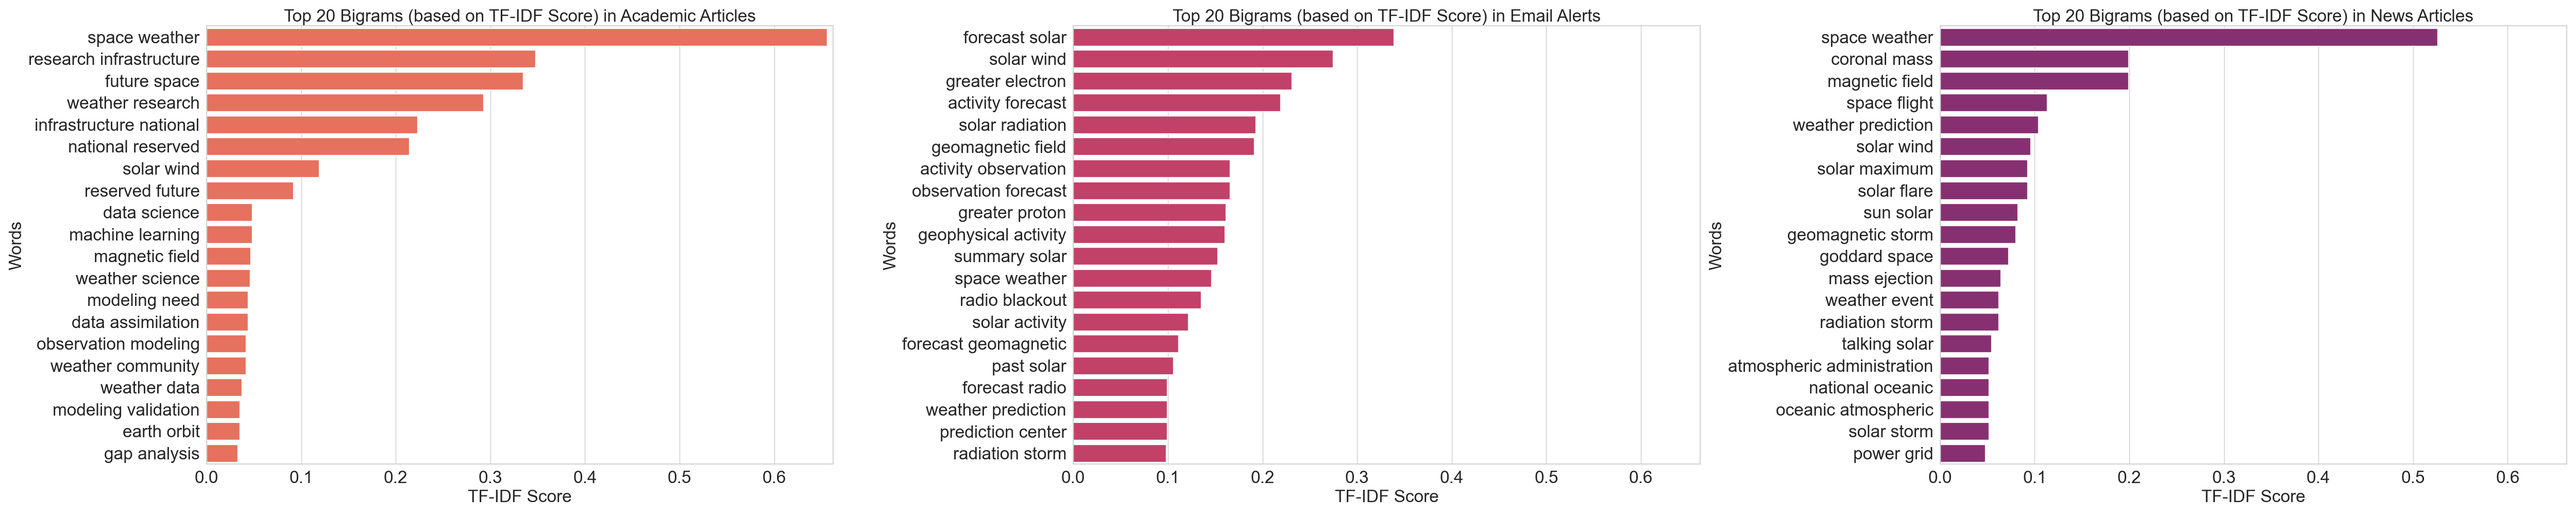
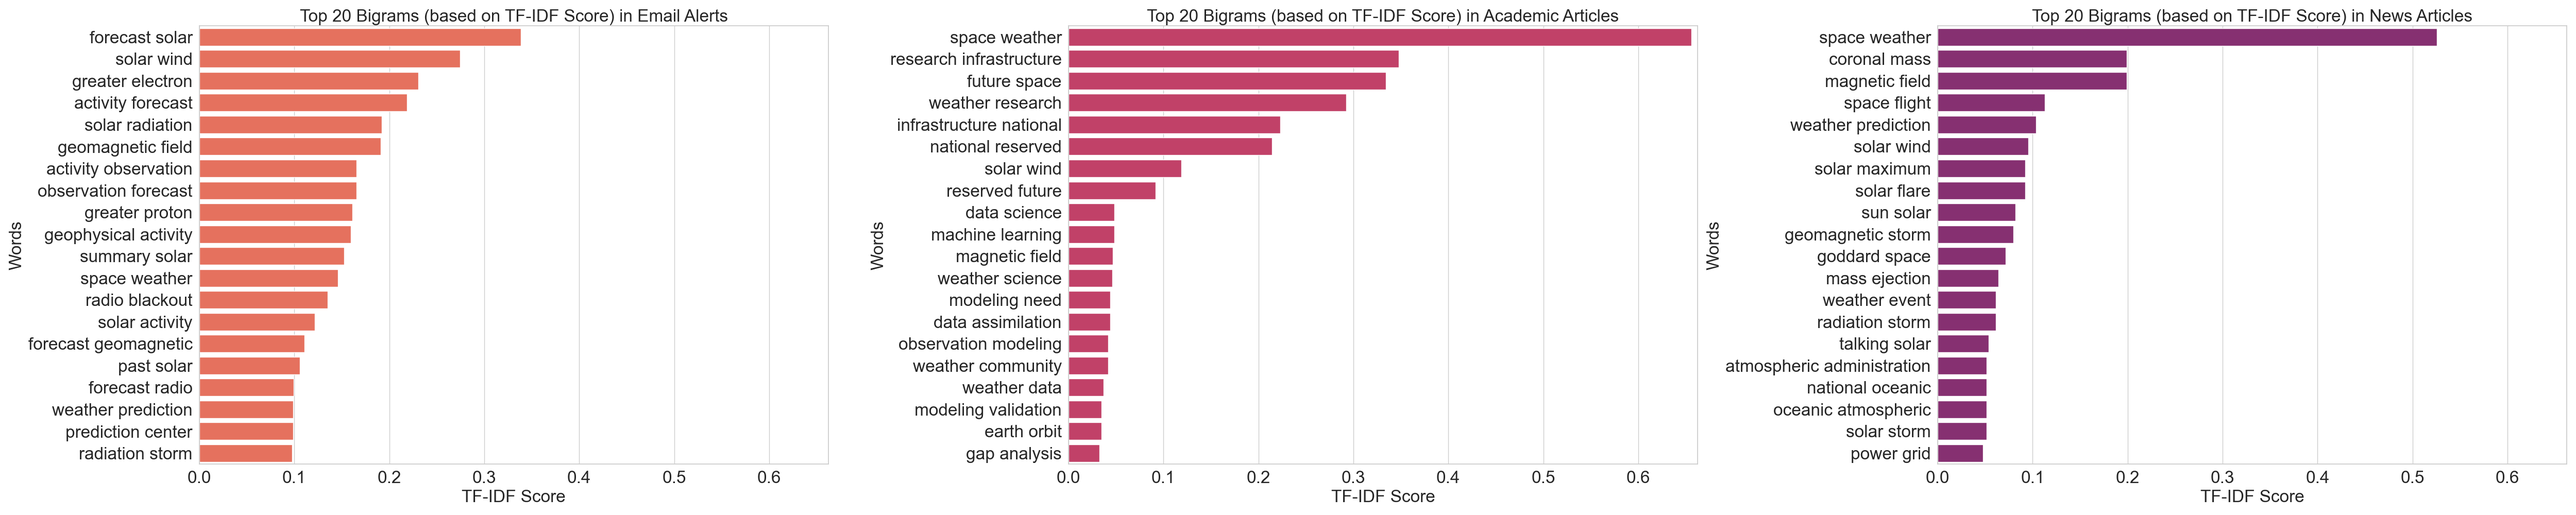
Final updated NLP analysis images

diff --git a/02_Code/04_SentimentAnalysis/02_SentimentAnalysis.py b/02_Code/04_SentimentAnalysis/02_SentimentAnalysis.py
@@ -14,19 +14,20 @@ def main():
         "Count"].transform("sum")
 
     sns.set_theme(style="whitegrid")
-    fig, axes = plt.subplots(4, 1, figsize=(15, 22), sharey=False)
+    fig, axes = plt.subplots(2, 2, figsize=(24, 12), sharey=False)
+    axes = axes.flatten()
 
-    documentNames = sentimentCounts["SourceTextType"].unique()
     palette = sns.color_palette("flare", n_colors=sentimentCounts["SentimentLabel"].nunique())
 
     graphOrder = ["emailAlert", "academicArticle", "newsArticle", "DashboardMessages"]
+    pieTitles = ["Email Alerts", "Academic Articles", "News Articles", "Dashboard Messages"]
     sentimentCounts["SourceTextType"] = pd.Categorical(sentimentCounts["SourceTextType"], categories=graphOrder, ordered=True)
     sentimentCounts = sentimentCounts.sort_values("SourceTextType")
 
     for i, category in enumerate(graphOrder):
         subset = sentimentCounts[sentimentCounts["SourceTextType"] == category]
         wedges, texts, autotexts = axes[i].pie(data=subset, x="Proportion", colors=palette, autopct="%1.1f%%", pctdistance=1.25)
-        axes[i].set_title(f"Sentence Sentiment Proportions for {category}", fontsize=24, pad=20)
+        axes[i].set_title(f"Sentence Sentiment Proportions for {pieTitles[i]}", fontsize=24, pad=20)
         axes[i].set_xlabel("", fontsize=24) # No need for x label, the graph is self-explanatory
 
         # Set percent font size
@@ -36,14 +37,17 @@ def main():
         # Grab colors from first plot for legend (if last legend is used, Positive does not show up since it doesn't exist for dashboardMessages)
         if category == "emailAlert":
             legendWedges = wedges
+
         fig.tight_layout()
+        # Padding between columns so that titles don't overlap
+        fig.subplots_adjust(wspace=0.25)
 
     plt.legend(
         handles=legendWedges,
         labels=["Neutral", "Negative", "Positive"],
         loc = "center",
         ncol=1,
-        bbox_to_anchor=(-.6, .5),
+        bbox_to_anchor=(-.875, .25),
         frameon=False,
         borderaxespad=0.0,
         title="Sentiment Label",

diff --git a/02_Code/03_FrequencyAnalysis/01_TermFrequencyInverseDocFrequency.py b/02_Code/03_FrequencyAnalysis/01_TermFrequencyInverseDocFrequency.py
@@ -121,9 +121,15 @@ def plotTopNumPerSourceTfidf(topNumber, ngramRange, ngramVal, wordScoresDf, docu
     sns.set_theme(style="whitegrid")
     fig, axes = plt.subplots(1, 3, figsize=(50, 10), sharey=False)
     palette = sns.color_palette("flare", n_colors=wordScoresDf["Document"].nunique())
+    graphOrder = ["Email Alerts", "Academic Articles", "News Articles"]
+    wordScoresDf["Document"] = pd.Categorical(wordScoresDf["Document"], categories=graphOrder,
+                                         ordered=True)
+    print(wordScoresDf)
 
-    for i, category in enumerate(documentNames):
-        subset = wordScoresDf[wordScoresDf["Document"] == category].nlargest(topNumber, "TfidfValue").sort_values(by="Document", ascending=True).sort_values(by='TfidfValue', ascending=False)
+    for i, category in enumerate(graphOrder):
+        subset = wordScoresDf[wordScoresDf["Document"] == category].nlargest(topNumber, "TfidfValue").sort_values(by="Document").sort_values(by='TfidfValue', ascending=False)
+        print("SUBSET")
+        print(subset)
         sns.barplot(data=subset, x="TfidfValue", y="Word", ax=axes[i], color=palette[i], legend=False, alpha=1, saturation=1)
         axes[i].set_xlim(0, wordScoresDf["TfidfValue"].max() * 1.01)
         axes[i].set_title(f"Top {topNumber} {ngramVal} (based on TF-IDF Score) in {category}", fontsize=24)
@@ -162,7 +168,7 @@ def plotAvgWordScores(wordScoresDf):
     plt.show()
 
 def plotOverallTopTfidf(topNumber, ngramVal, wordScoresDf):
-    fig, ax = plt.subplots(figsize=(18,25))
+    fig, ax = plt.subplots(figsize=(20,25))
     cmap = sns.color_palette("flare", as_cmap=True)
 
     sns.barplot(
